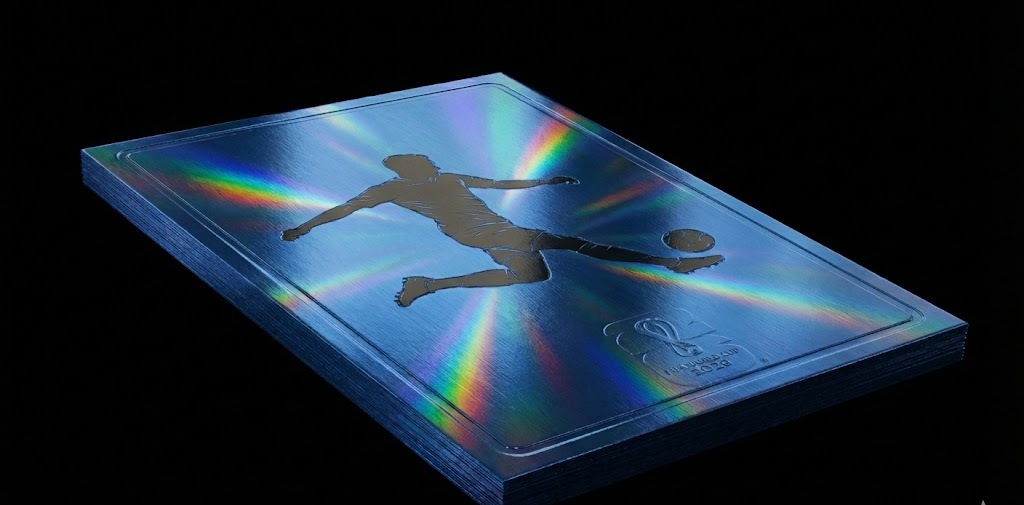
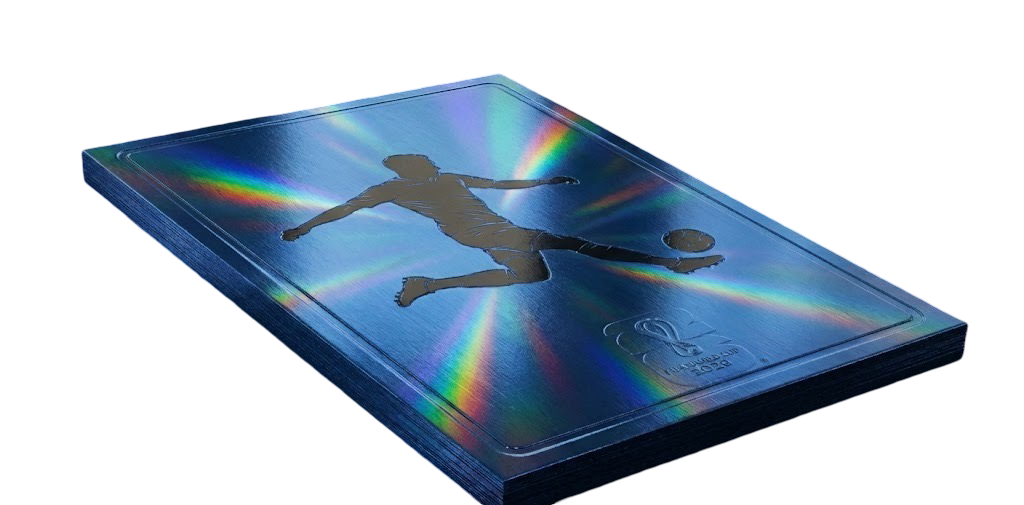
Fix Extra Stickers button with transparent PNG, layered positioning
- Use new transparent PNG (no black background)
- Absolute positioned (-top-8 -right-2) so it floats/overlaps
- Doesn't affect adjacent layout
- Image below, text underneath
- Smooth spring animation with y:-2 lift on hover
- drop-shadow-xl for depth

diff --git a/src/components/ProductCard.jsx b/src/components/ProductCard.jsx
@@ -257,32 +257,31 @@ const ProductCard = ({ product, index, quantity, onQuantityChange }) => {
           {/* Title + Price block */}
           <div className="mb-3">
             {/* Title row with Extra Stickers button */}
-            <div className="flex items-center gap-2">
+            <div className="relative">
               <h3 className={`text-xl sm:text-2xl font-bold leading-tight transition-colors duration-300
                 ${isDark ? 'text-white' : 'text-warm-brown'}
               `}>
                 {product.name}
               </h3>
 
-              {/* Extra Stickers Badge - Only for Caja Display */}
+              {/* Extra Stickers Badge - Only for Caja Display - Layered/Absolute */}
               {isCajaDisplay && (
                 <motion.button
                   onClick={(e) => {
                     e.stopPropagation();
                     setShowExtraStickersModal(true);
                   }}
-                  whileHover={{ scale: 1.08 }}
+                  whileHover={{ scale: 1.1, y: -2 }}
                   whileTap={{ scale: 0.95 }}
-                  transition={{ type: "spring", stiffness: 300, damping: 20 }}
-                  className="relative flex flex-col items-center cursor-pointer ml-2"
+                  transition={{ type: "spring", stiffness: 400, damping: 25 }}
+                  className="absolute -top-8 -right-2 flex flex-col items-center cursor-pointer z-10"
                 >
                   <img
                     src={img('card-extra-blue.png')}
                     alt="Extra Sticker"
-                    className="w-auto h-12 object-contain drop-shadow-lg"
-                    style={{ transform: 'perspective(200px) rotateY(-15deg) rotateX(5deg)' }}
+                    className="w-16 h-auto object-contain drop-shadow-xl"
                   />
-                  <span className={`text-[9px] font-medium tracking-wide -mt-1
+                  <span className={`text-[8px] font-semibold tracking-wide -mt-0.5
                     ${isDark ? 'text-gray-400' : 'text-warm-gray'}
                   `}>
                     Extra Stickers
